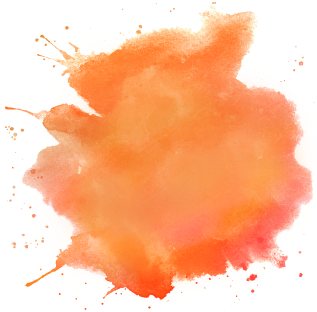
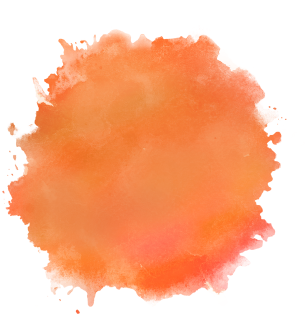
Заменил пятна краски, внес правки по тексту и отступам.

diff --git a/index.html b/index.html
@@ -271,7 +271,7 @@
       Летней ночью бывает прохладно, <span class="nobr">но дети</span> <span class="nobr">не мёрзнут —</span>
       <span class="nobr">все корпуса</span> отапливаются.
     </p>
-    <div class="small_orange_spot">
+    <div class="small_blue_spot">
       <div class="icon_bottle"></div>
       <p class="spot_text">
         Мебель <span class="nobr">и постельные</span>
@@ -294,7 +294,7 @@
     <div class="content_wrapper wide_photo_caption">
       <p class="photo_caption">В каждом корпусе есть по два санузла с горячей водой</p>
     </div>
-    <div class="small_purple_spot">
+    <div class="small_orange_spot">
       <div class="icon_washing_hands"></div>
       <p class="spot_text">
         В каждом корпусе
@@ -424,7 +424,7 @@
   >
   <div class="photo_caption_wrapper">
     <p class="photo_caption"><span class="photo_caption_title">Пейнтбол.</span> Полезная игра
-      <span class="nobr">в «стрелялки»:</span> дети активно двигаются,
+      <span class="nobr">в «стрелялки»:</span> дети двигаются,
       учатся работать в команде. Каждому игроку выдаём средства защиты: маски <span class="nobr">и костюмы</span>
     </p>
   </div>
@@ -619,9 +619,9 @@
     </div>
   </div>
   <div class="map_section_spot">
-    Бесплатно довезём
-    <br>
-    ребёнка <span class="nobr">до лагеря</span>
+    Довезём ребенка<br>
+    до лагеря на автобусе<br>
+    бесплатно
   </div>
 </div>
 

diff --git a/css/style.css b/css/style.css
@@ -381,26 +381,26 @@ img
     max-width: 560px;
 }
 
-.small_orange_spot
+.small_blue_spot
 {
-    padding: 49px 47px 10px 92px;
-    width: 317px;
-    height: 312px;
-    background: url('../images/orange-spot.png') no-repeat;
+    padding: 60px 47px 10px 89px;
+    width: 328px;
+    height: 327px;
+    background: url('../images/blue-spot.png') no-repeat;
     position: absolute;
-    top: 33px;
-    right: -39px;
+    top: 22px;
+    right: -53px;
 }
 
-.small_purple_spot
+.small_orange_spot
 {
-    padding: 61px 58px 50px 81px;
-    width: 297px;
-    height: 303px;
-    background: url('../images/purple-spot.png') no-repeat;
+    padding: 74px 58px 50px 73px;
+    width: 305px;
+    height: 314px;
+    background: url('../images/orange-spot.png') no-repeat;
     position: absolute;
-    bottom: -140px;
-    left: 160px;
+    bottom: -139px;
+    left: 167px;
 }
 
 .icon_bottle
@@ -814,7 +814,7 @@ img
     font-size: 16px;
     line-height: 20px;
     color: #FFFFFF;
-    padding: 131px 32px 108px 80px;
+    padding: 123px 32px 108px 77px;
 }
 
 .map_wrapper
@@ -1217,14 +1217,14 @@ img
 .copyright span
 {
     font-size: 14px;
-    line-height: 19px;
+    line-height: 17px;
     margin: 0 0 3px;
 }
 
 .phone
 {
     display: block;
-    margin: 0 0 3px;
+    margin: 0 0 2px;
     font-size: 16px;
     line-height: 18px;
     color: black;
@@ -1318,8 +1318,8 @@ img
         display: none;
     }
 
-    .small_orange_spot,
-    .small_purple_spot
+    .small_blue_spot,
+    .small_orange_spot
     {
         display: none;
     }
